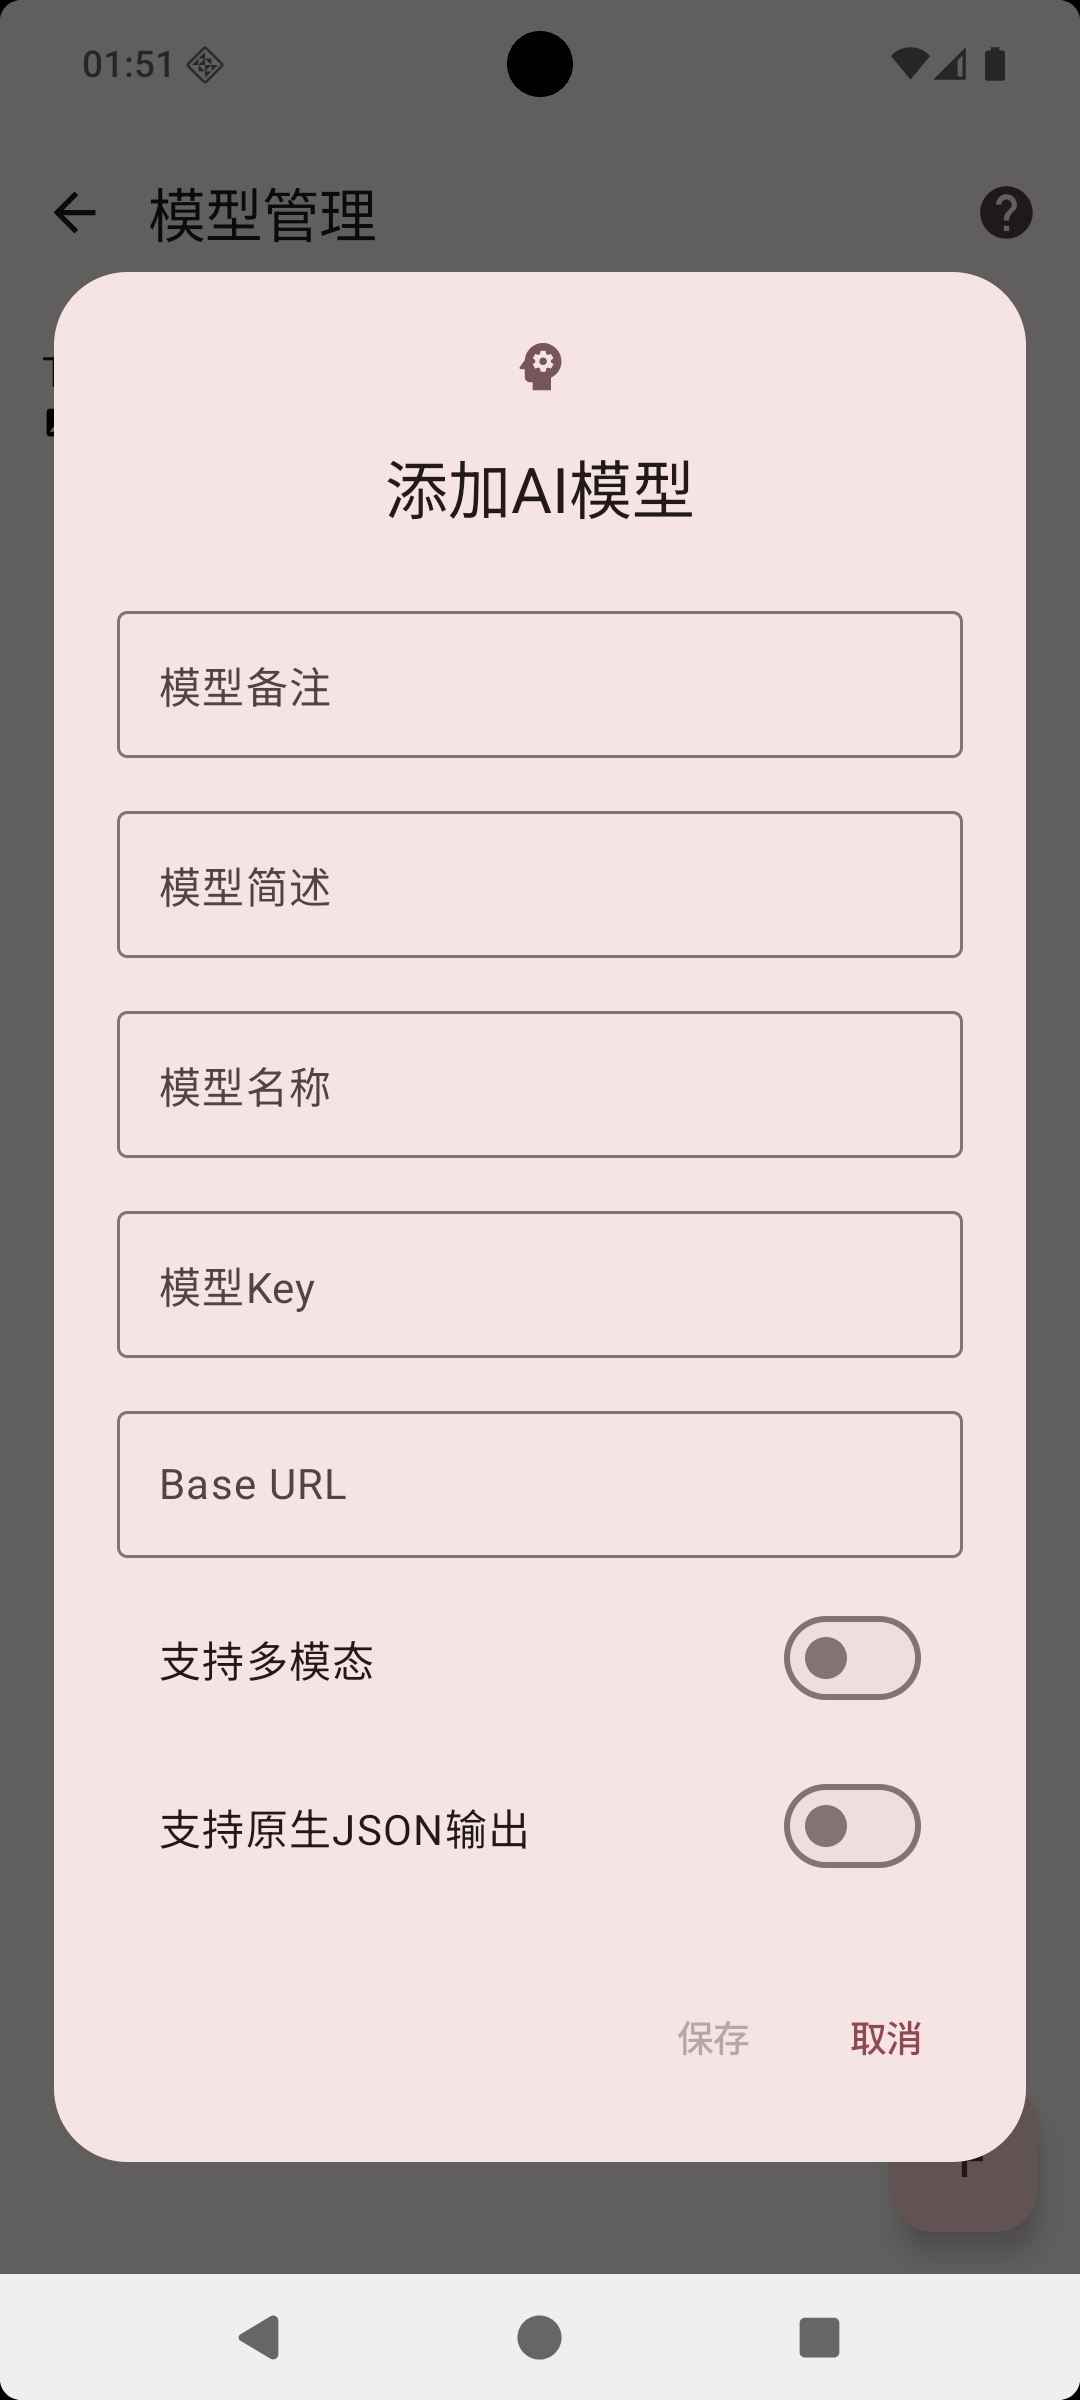
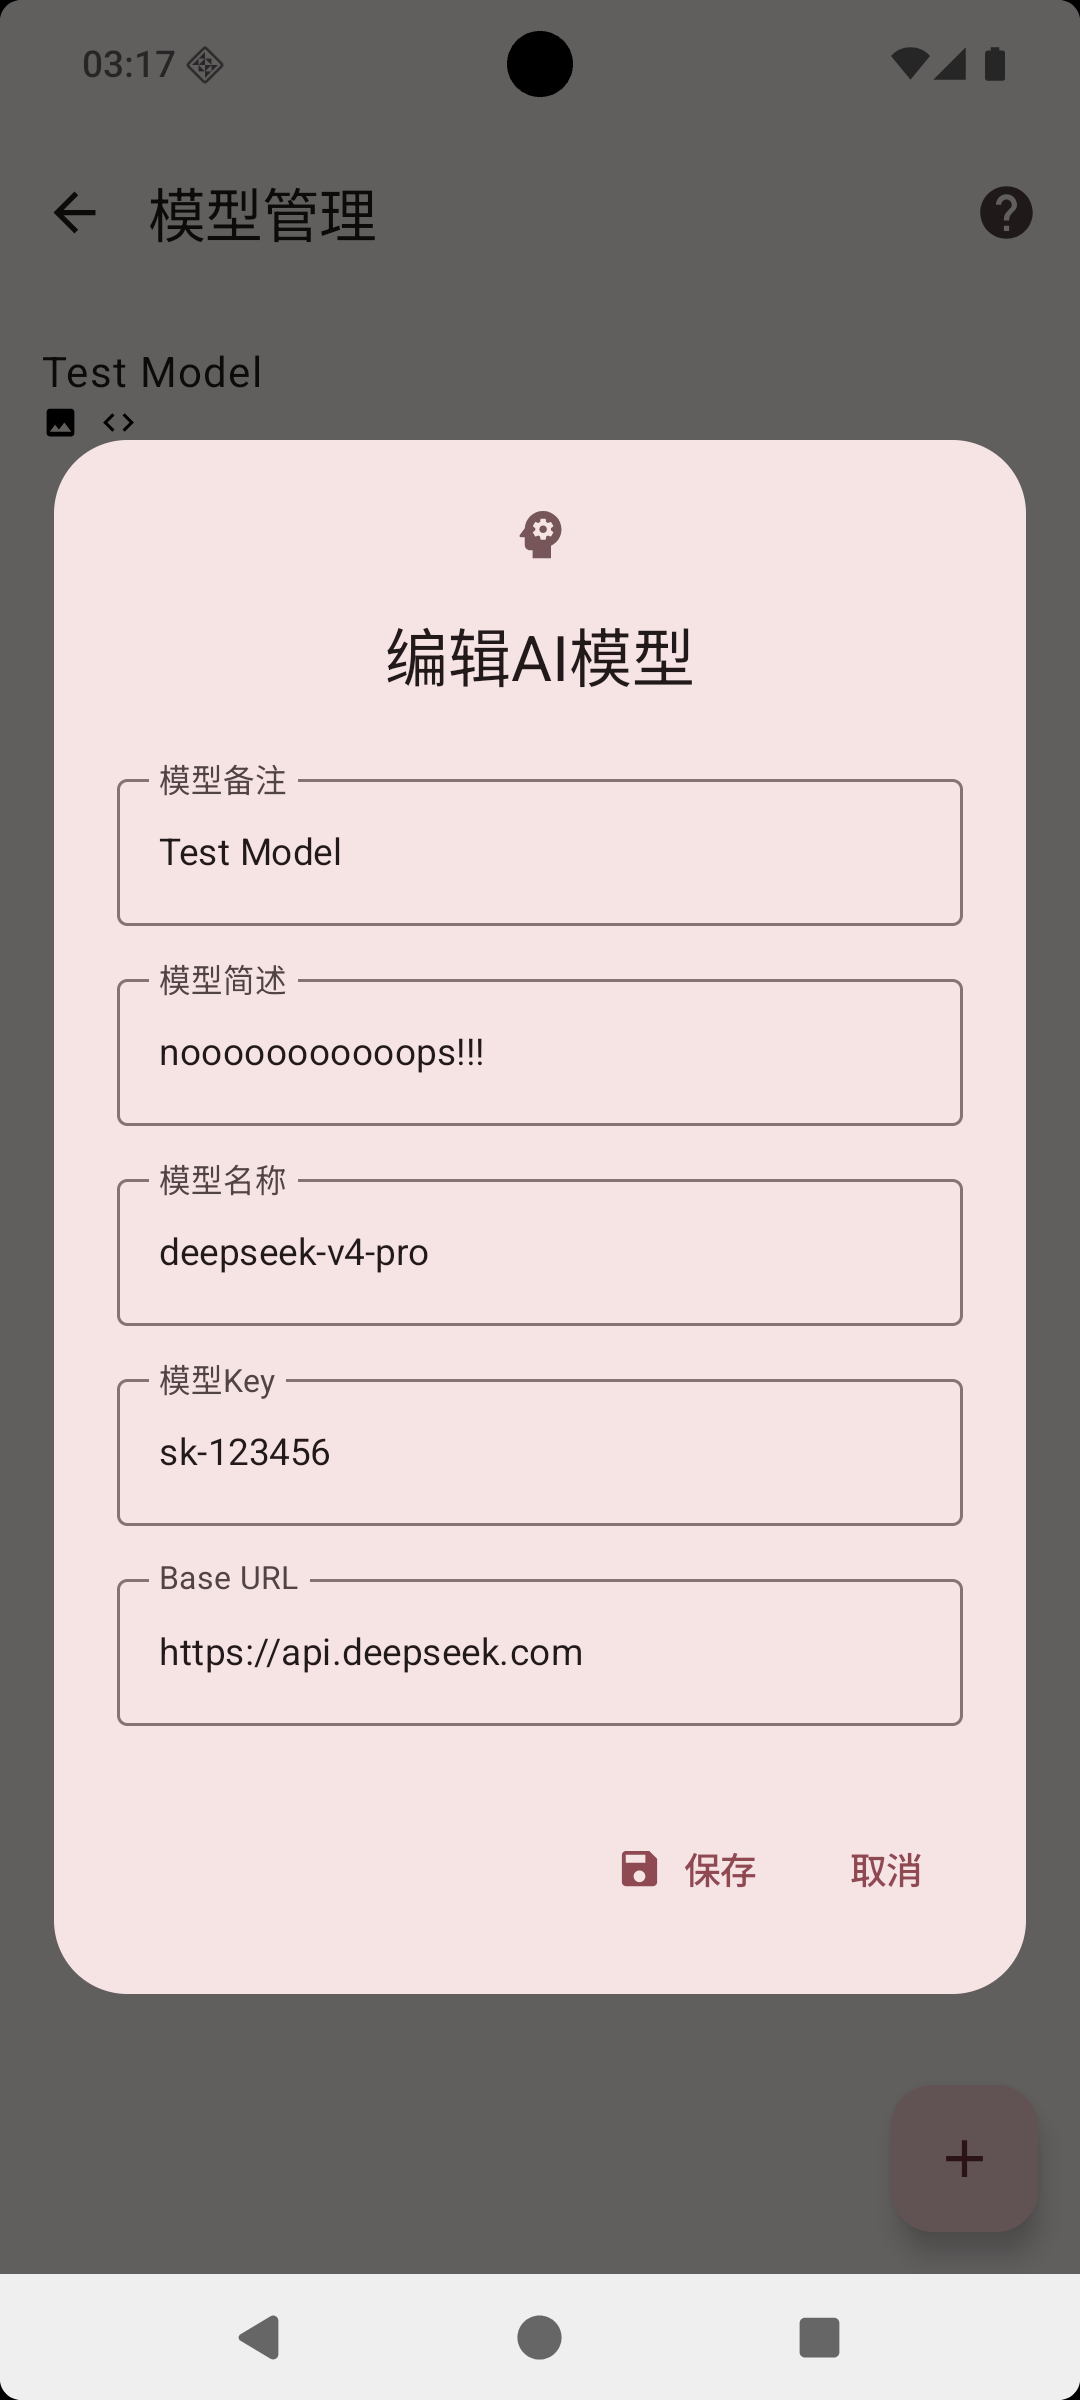
自行验证是否支持图片输出和native json

diff --git a/composeApp/src/commonMain/kotlin/top/kagg886/eoa/pages/main/settings/ai/edit/model.kt b/composeApp/src/commonMain/kotlin/top/kagg886/eoa/pages/main/settings/ai/edit/model.kt
@@ -1,17 +1,30 @@
 package top.kagg886.eoa.pages.main.settings.ai.edit
 
-import ai.koog.agents.core.agent.AIAgent
-import ai.koog.agents.core.agent.config.AIAgentConfig
 import ai.koog.http.client.ktor.KtorKoogHttpClient
 import ai.koog.prompt.dsl.prompt
 import ai.koog.prompt.executor.clients.openai.OpenAIClientSettings
 import ai.koog.prompt.executor.clients.openai.OpenAILLMClient
 import ai.koog.prompt.executor.clients.openai.OpenAIModels
 import ai.koog.prompt.executor.llms.MultiLLMPromptExecutor
+import ai.koog.prompt.executor.model.StructureFixingParser
+import ai.koog.prompt.executor.model.executeStructured
+import ai.koog.prompt.message.AttachmentContent
+import ai.koog.prompt.message.AttachmentSource
+import ai.koog.prompt.structure.StructuredRequest
+import ai.koog.prompt.structure.StructuredRequestConfig
+import ai.koog.prompt.structure.json.JsonStructure
+import ai.koog.prompt.structure.json.generator.StandardJsonSchemaGenerator
+import ai.koog.prompt.text.text
 import androidx.lifecycle.ViewModel
+import androidx.lifecycle.viewModelScope
 import io.ktor.client.plugins.logging.LogLevel
 import io.ktor.client.plugins.logging.Logging
+import kotlinx.coroutines.async
+import kotlinx.coroutines.awaitAll
+import kotlinx.coroutines.coroutineScope
 import kotlinx.coroutines.delay
+import kotlinx.serialization.Serializable
+import okio.ByteString.Companion.decodeBase64
 import org.orbitmvi.orbit.Container
 import org.orbitmvi.orbit.ContainerHost
 import org.orbitmvi.orbit.annotation.OrbitExperimental
@@ -22,6 +35,7 @@ import top.kagg886.eoa.util.SnackBarType
 import top.kagg886.util.asKtorLogger
 import top.kagg886.util.asTaggedLogger
 import top.kagg886.util.http.HttpClient
+import kotlin.io.encoding.Base64
 import kotlin.time.Duration.Companion.seconds
 import kotlin.uuid.ExperimentalUuidApi
 import kotlin.uuid.Uuid
@@ -52,56 +66,127 @@ class LLMProviderEditModel(
 
         //verify AI
 
-        val agent = AIAgent(
-            promptExecutor = MultiLLMPromptExecutor(
-                OpenAILLMClient(
-                    apiKey = item.modelKey,
-                    settings = OpenAIClientSettings(baseUrl = item.baseUrl),
-                    httpClientFactory = KtorKoogHttpClient.Factory(
-                        baseClient = HttpClient {
-                            install(Logging) {
-                                logger = this@LLMProviderEditModel.logger.asKtorLogger
-                                level = LogLevel.ALL
-                            }
+        val agent = MultiLLMPromptExecutor(
+            OpenAILLMClient(
+                apiKey = item.modelKey,
+                settings = OpenAIClientSettings(baseUrl = item.baseUrl),
+                httpClientFactory = KtorKoogHttpClient.Factory(
+                    baseClient = HttpClient {
+                        install(Logging) {
+                            logger = this@LLMProviderEditModel.logger.asKtorLogger
+                            level = LogLevel.ALL
                         }
-                    )
+                    }
                 )
             ),
-            agentConfig = AIAgentConfig(
-                model = OpenAIModels.Chat.GPT4o.copy(id = item.modelName),
-                prompt = prompt("prompt") {},
-                maxAgentIterations = 2
-            )
         )
 
-        val success = try {
-            agent.run("请回复且仅回复true来证明本客户端和服务器连通。")
+        addCloseable(agent)
+
+
+        val model = OpenAIModels.Chat.GPT4o.copy(id = item.modelName)
+
+        val fixingParser = StructureFixingParser(
+            model = model,
+            retries = 1
+        )
+
+        suspend fun clean() {
+            agent.close()
+            runOn<LLMProviderEditState.Success> {
+                reduce { state.copy(confirming = false) }
+            }
+        }
+
+        val base = try {
+            agent.execute(
+                prompt = prompt("llm-provider-basic-validation") {
+                    user("我正在测试模型是否运行正常，返回李白的一首诗来确认模型正常。")
+                },
+                model = model,
+            )
             true
         } catch (e: Exception) {
             logger.e("无法验证AI配置是否有效", e)
-            false
-        } finally {
-            agent.close()
-        }
-
-        if (!success) {
             postSideEffect(
                 LLMProviderEditSideEffect.Toast(
                     SnackBarType.Error,
                     "无法验证当前配置是否有效，请查看系统日志"
                 )
             )
-            runOn<LLMProviderEditState.Success> {
-                reduce { state.copy(confirming = false) }
-            }
+            clean()
+            false
+        }
+
+        if (!base) {
             return@intent
         }
 
-        val target = if (item.uuid.isBlank()) {
-            item.copy(uuid = Uuid.random().toString())
-        } else {
-            item
+        val imageValidateTask = viewModelScope.async {
+            try {
+                agent.execute(
+                    prompt = prompt("llm-provider-image-validation") {
+                        user {
+                            text("请检查随消息发送的图片: validation.png，并告诉我图片的人物是谁")
+                            image(
+                                AttachmentSource.Image(
+                                    content = AttachmentContent.Binary.Bytes(
+                                        data = Base64.decode(
[1 lines of base64/hex data omitted]
+                                        )
+                                    ),
+                                    format = "png",
+                                    mimeType = "image/png",
+                                    fileName = "validation.png"
+                                )
+                            )
+                        }
+                    },
+                    model = model,
+                )
+                true
+            } catch (e: Exception) {
+                logger.e("无法验证模型是否支持图片", e)
+                false
+            }
         }
+
+        val nativeJsonValidateTask = viewModelScope.async {
+            @Serializable
+            data class TestCode(
+                val name: String,
+                val age: Int
+            )
+
+            try {
+                agent.executeStructured<TestCode>(
+                    prompt = prompt("llm-provider-native-json-validation") {
+                        user("我正在验证模型输出json的能力，请根据上下文自行编造合适的json")
+                    },
+                    model = model,
+                    config = StructuredRequestConfig(
+                        default = StructuredRequest.Native(
+                            structure = JsonStructure.create<TestCode>(
+                                schemaGenerator = StandardJsonSchemaGenerator.Default
+                            )
+                        )
+                    ),
+                    fixingParser = fixingParser
+                )
+                true
+            } catch (e: Exception) {
+                logger.e("无法验证模型是否支持原生json", e)
+                false
+            }
+        }
+
+
+        val target = item.copy(
+            uuid = item.uuid.ifBlank { Uuid.random().toString() },
+            supportMultimodal = imageValidateTask.await(),
+            supportNativeJsonOutput = nativeJsonValidateTask.await(),
+        )
+
         dao.insert(target)
         postSideEffect(
             LLMProviderEditSideEffect.Toast(

diff --git a/composeApp/src/commonMain/kotlin/top/kagg886/eoa/pages/main/settings/ai/edit/screen.kt b/composeApp/src/commonMain/kotlin/top/kagg886/eoa/pages/main/settings/ai/edit/screen.kt
@@ -15,7 +15,6 @@ import androidx.compose.foundation.layout.size
 import androidx.compose.foundation.rememberScrollState
 import androidx.compose.foundation.verticalScroll
 import androidx.compose.material.icons.Icons
-import androidx.compose.material.icons.filled.FileDownload
 import androidx.compose.material.icons.filled.Psychology
 import androidx.compose.material.icons.filled.Save
 import androidx.compose.material3.*
@@ -31,7 +30,6 @@ import top.kagg886.backend.database.dao.LLMProviderEntity
 import top.kagg886.eoa.LocalNavController
 import top.kagg886.eoa.component.dialog.DialogPageScaffold
 import top.kagg886.eoa.pages.main.mainViewModelOrNull
-import top.kagg886.eoa.util.SnackBarType
 
 
 @Serializable
@@ -92,8 +90,6 @@ private fun LLMProviderEditPage(
     var modelName by remember(initial.uuid) { mutableStateOf(initial.modelName) }
     var modelKey by remember(initial.uuid) { mutableStateOf(initial.modelKey) }
     var baseUrl by remember(initial.uuid) { mutableStateOf(initial.baseUrl) }
-    var supportMultimodal by remember(initial.uuid) { mutableStateOf(initial.supportMultimodal) }
-    var supportNativeJsonOutput by remember(initial.uuid) { mutableStateOf(initial.supportNativeJsonOutput) }
     var modelRemark by remember(initial.uuid) { mutableStateOf(initial.modelRemark) }
     var modelDescription by remember(initial.uuid) { mutableStateOf(initial.modelDescription) }
 
@@ -109,8 +105,6 @@ private fun LLMProviderEditPage(
                             modelName = modelName,
                             modelKey = modelKey,
                             baseUrl = baseUrl,
-                            supportMultimodal = supportMultimodal,
-                            supportNativeJsonOutput = supportNativeJsonOutput,
                             modelRemark = modelRemark,
                             modelDescription = modelDescription,
                         )
@@ -163,10 +157,6 @@ private fun LLMProviderEditPage(
             onModelKeyChange = { modelKey = it },
             baseUrl = baseUrl,
             onBaseUrlChange = { baseUrl = it },
-            supportMultimodal = supportMultimodal,
-            onSupportMultimodalChange = { supportMultimodal = it },
-            supportNativeJsonOutput = supportNativeJsonOutput,
-            onSupportNativeJsonOutputChange = { supportNativeJsonOutput = it },
         )
     }
 }
@@ -183,10 +173,6 @@ private fun LLMProviderEditForm(
     onModelKeyChange: (String) -> Unit,
     baseUrl: String,
     onBaseUrlChange: (String) -> Unit,
-    supportMultimodal: Boolean,
-    onSupportMultimodalChange: (Boolean) -> Unit,
-    supportNativeJsonOutput: Boolean,
-    onSupportNativeJsonOutputChange: (Boolean) -> Unit,
 ) {
     Column(
         modifier = Modifier
@@ -228,30 +214,6 @@ private fun LLMProviderEditForm(
             label = { Text("Base URL") },
             singleLine = true,
             modifier = Modifier.fillMaxWidth().padding(vertical = 6.dp)
-        )
-        ListItem(
-            headlineContent = { Text("支持多模态") },
-            trailingContent = {
-                Switch(
-                    checked = supportMultimodal,
-                    onCheckedChange = onSupportMultimodalChange
-                )
-            },
-            colors = ListItemDefaults.colors(
-                containerColor = AlertDialogDefaults.containerColor,
-            )
-        )
-        ListItem(
-            headlineContent = { Text("支持原生JSON输出") },
-            trailingContent = {
-                Switch(
-                    checked = supportNativeJsonOutput,
-                    onCheckedChange = onSupportNativeJsonOutputChange
-                )
-            },
-            colors = ListItemDefaults.colors(
-                containerColor = AlertDialogDefaults.containerColor,
-            )
         )
     }
 }

diff --git a/docs/doc/settings.md b/docs/doc/settings.md
@@ -161,12 +161,7 @@
 - **模型简述**：简单说明这个模型适合做什么，方便以后选择
 - **模型名称**：模型服务中对应的模型名
 - **模型Key**：模型服务提供的访问凭证
-- **Base URL**：模型服务地址，使用自定义或第三方服务时需要填写
-
-下方两个开关用于说明模型能力：
-
-- **支持多模态**：开启后，使用 AI 功能时可以选择图片
-- **支持原生JSON输出**：开启后，应用会按更规整的方式接收模型结果
+- **Base URL**：模型服务地址
 
 填写完成后点击“保存”。保存成功后，这个模型就会出现在模型列表中，也可以在支持 AI 的页面中被选择。
 
